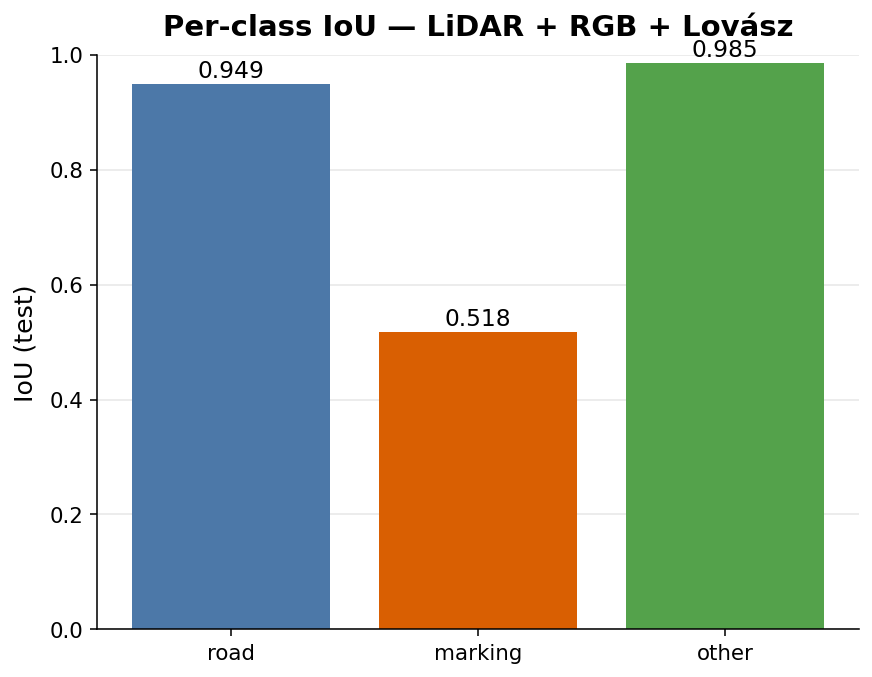
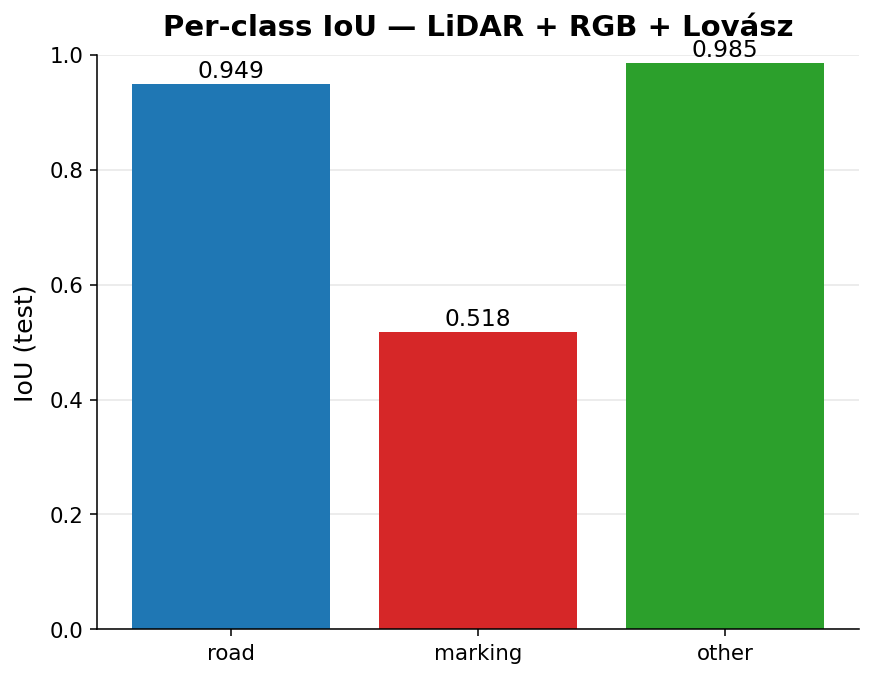
Figures: class colour rule blue=road/red=marking/green=other; fix confusion + distance
- _suite_style: MARKING orange->red (road already blue, other already green); decouple
  METRIC precision/recall to orange/purple so they don't reuse class colours.
- model_results_figures: confusion now annotated with ACTUAL COUNTS (+ row %), not
  rounded proportions; by-distance rescaled (tight y-axis) with marking-share per
  bucket so the far-range degradation (IoU 0.59->0.35) is visible; class/metric
  palettes applied consistently.
- regenerated G2_final, comparisons/plots, d0_vs_g2.

diff --git a/results/test_suite/model_results_figures.py b/results/test_suite/model_results_figures.py
@@ -5,19 +5,21 @@ For ONE model (the chosen final model), from its full-coverage test pass, makes 
 self-contained set of results figures + a summary table -> results/<model>_final/.
 CPU / file-only (reads the CSVs + confusion_matrix.npy already on disk).
 
-Figures (each answers one thesis question):
-  fig_per_class_iou       - road/marking/other IoU (which classes are hard)
-  fig_marking_metrics     - marking IoU/precision/recall/F1
-  fig_confusion           - row-normalized 3x3 confusion (error structure)
-  fig_by_distance         - marking IoU + precision + recall vs range bucket
-  fig_by_sequence         - marking IoU per test sequence (065 night highlighted)
-  fig_by_subtype          - recall per marking subtype (lane / stop / other)
-  fig_by_rgb_validity     - marking IoU + recall in camera-visible vs not (RGB models)
-  fig_frame_iou_hist      - distribution of per-frame marking IoU (consistency)
+Colour rule (via _suite_style): blue=road, red=marking, green=other for class
+figures; a separate palette (red/orange/purple/gold) for the marking IoU/precision/
+recall/F1 family so it never collides with class colours.
 
-Usage:
-  python results/test_suite/model_results_figures.py            # G2
-  python results/test_suite/model_results_figures.py --model D0
+Figures (each answers one thesis question):
+  fig_per_class_iou    - road/marking/other IoU
+  fig_marking_metrics  - marking IoU/precision/recall/F1
+  fig_confusion        - 3x3 confusion with ACTUAL COUNTS (+ row %)
+  fig_by_distance      - marking IoU/precision/recall vs range (rescaled; share/bucket)
+  fig_by_sequence      - marking IoU per sequence (065 night marked)
+  fig_by_subtype       - recall per marking subtype (lane / stop / other)
+  fig_by_rgb_validity  - marking IoU + recall where camera sees vs not (RGB models)
+  fig_frame_iou_hist   - per-frame marking IoU distribution (consistency)
+
+Usage:  python results/test_suite/model_results_figures.py [--model G2]
 """
 from __future__ import annotations
 
@@ -53,10 +55,12 @@ def repo_root() -> Path:
 REPO = repo_root()
 FOLDERS = {"D0": "D0_lidar", "E0": "E0_lidar_rgb", "F0": "F0_lidar_rgb_calibrated",
            "G2": "G2_lidar_rgb_lovasz", "H0": "H0_lidar_rgb_lovasz_jitter"}
+ROAD = getattr(S, "ROAD", "#1f77b4") if HAVE_STYLE else "#1f77b4"
 MARK = getattr(S, "MARKING", "#d62728") if HAVE_STYLE else "#d62728"
-ROAD = getattr(S, "ROAD", "#7f8c9a") if HAVE_STYLE else "#7f8c9a"
-OTHER = getattr(S, "OTHER", "#b0b0b0") if HAVE_STYLE else "#b0b0b0"
-ACC = getattr(S, "CANDIDATE", "#2e7d32") if HAVE_STYLE else "#2e7d32"
+OTHER = getattr(S, "OTHER", "#2ca02c") if HAVE_STYLE else "#2ca02c"
+MET = getattr(S, "METRIC", None) if HAVE_STYLE else None
+if not MET:
+    MET = {"iou": MARK, "precision": "#ff7f0e", "recall": "#9467bd", "f1": "#e6ab02"}
 
 
 def style(ax):
@@ -70,6 +74,15 @@ def legend(ax, **kw):
 
 def save(fig, out, name):
     fig.tight_layout(); fig.savefig(out / name, dpi=140); plt.close(fig)
+
+
+def fmt(n) -> str:
+    n = int(round(float(n)))
+    if abs(n) >= 1_000_000:
+        return f"{n/1e6:.2f}M"
+    if abs(n) >= 10_000:
+        return f"{n/1e3:.0f}k"
+    return f"{n:,}"
 
 
 def metrics_from_cm(cm):
@@ -91,73 +104,83 @@ def main():
     out = REPO / "results" / f"{args.model}_final"
     out.mkdir(parents=True, exist_ok=True)
     name = (S.display_name(args.model) if HAVE_STYLE and hasattr(S, "display_name") else args.model)
+    CLS = ["road", "marking", "other"]
 
     cm = np.load(d / "confusion_matrix.npy")
     cls = metrics_from_cm(cm)
 
-    # 1) per-class IoU
+    # 1) per-class IoU  (blue / red / green)
     fig, ax = plt.subplots(figsize=(6.4, 5))
     vals = [cls["road_iou"], cls["marking_iou"], cls["other_iou"]]
-    ax.bar(["road", "marking", "other"], vals, color=[ROAD, MARK, OTHER])
+    ax.bar(CLS, vals, color=[ROAD, MARK, OTHER])
     for i, v in enumerate(vals):
         ax.text(i, v + 0.012, f"{v:.3f}", ha="center")
     ax.set_ylim(0, 1); ax.set_ylabel("IoU (test)"); ax.set_title(f"Per-class IoU — {name}")
     style(ax); save(fig, out, "fig_per_class_iou.png")
 
-    # 2) marking metrics
+    # 2) marking metrics  (metric palette)
     sm = pd.read_csv(d / "rgb_valid_stratified_metrics.csv") if (d / "rgb_valid_stratified_metrics.csv").exists() else None
     row = (sm[sm["stratum"] == "all"].iloc[0] if sm is not None else None)
+    ks = [("marking_iou", "IoU", MET["iou"]), ("marking_precision", "precision", MET["precision"]),
+          ("marking_recall", "recall", MET["recall"]), ("marking_f1", "F1", MET["f1"])]
     if row is not None:
-        ks = [("marking_iou", "IoU"), ("marking_precision", "precision"),
-              ("marking_recall", "recall"), ("marking_f1", "F1")]
         fig, ax = plt.subplots(figsize=(6.8, 5))
-        vv = [float(row[k]) for k, _ in ks]
-        ax.bar([l for _, l in ks], vv, color=ACC)
+        vv = [float(row[k]) for k, _l, _c in ks]
+        ax.bar([l for _k, l, _c in ks], vv, color=[c for _k, _l, c in ks])
         for i, v in enumerate(vv):
             ax.text(i, v + 0.012, f"{v:.3f}", ha="center")
         ax.set_ylim(0, 1); ax.set_ylabel("score (test)"); ax.set_title(f"Marking metrics — {name}")
         style(ax); save(fig, out, "fig_marking_metrics.png")
 
-    # 3) confusion matrix (row-normalized)
+    # 3) confusion matrix with ACTUAL COUNTS (+ row %); colour = row-normalized
     cmn = cm / cm.sum(axis=1, keepdims=True).clip(min=1)
-    fig, ax = plt.subplots(figsize=(5.6, 5))
+    fig, ax = plt.subplots(figsize=(6.2, 5.2))
     im = ax.imshow(cmn, cmap="Blues", vmin=0, vmax=1)
-    ax.set_xticks(range(3)); ax.set_xticklabels(["road", "marking", "other"])
-    ax.set_yticks(range(3)); ax.set_yticklabels(["road", "marking", "other"])
-    ax.set_xlabel("predicted"); ax.set_ylabel("true"); ax.set_title(f"Confusion (row-normalized) — {name}")
+    ax.set_xticks(range(3)); ax.set_xticklabels(CLS)
+    ax.set_yticks(range(3)); ax.set_yticklabels(CLS)
+    ax.set_xlabel("predicted"); ax.set_ylabel("true")
+    ax.set_title(f"Confusion matrix (counts; cell %% of true row) — {name}")
     for i in range(3):
         for j in range(3):
-            ax.text(j, i, f"{cmn[i, j]:.2f}", ha="center", va="center",
-                    color="white" if cmn[i, j] > 0.5 else "black")
-    fig.colorbar(im, ax=ax, fraction=0.046, pad=0.04); save(fig, out, "fig_confusion.png")
+            ax.text(j, i, f"{fmt(cm[i, j])}\n{cmn[i, j]*100:.1f}%", ha="center", va="center",
+                    color="white" if cmn[i, j] > 0.5 else "black", fontsize=10)
+    fig.colorbar(im, ax=ax, fraction=0.046, pad=0.04, label="row-normalized")
+    save(fig, out, "fig_confusion.png")
 
-    # 4) by distance: IoU + precision + recall
+    # 4) by distance: IoU + precision + recall, rescaled, with marking share/bucket
     db = pd.read_csv(d / "distance_bucket_metrics.csv")
-    fig, ax = plt.subplots(figsize=(9.5, 5.2))
+    share = (db["true_marking"] / db["true_marking"].sum() * 100).round(0).astype(int)
+    xt = [f"{b}\n({s}% of mks)" for b, s in zip(db["bucket"], share)]
+    fig, ax = plt.subplots(figsize=(10, 5.4))
     x = range(len(db))
-    ax.plot(x, db["marking_iou"], marker="o", label="IoU", color=MARK)
-    ax.plot(x, db["marking_precision"], marker="s", label="precision", color=ACC)
-    ax.plot(x, db["marking_recall"], marker="^", label="recall", color="#1f77b4")
-    ax.set_xticks(list(x)); ax.set_xticklabels(db["bucket"]); ax.set_ylim(0, 1)
+    ax.plot(x, db["marking_iou"], marker="o", label="IoU", color=MET["iou"], lw=2)
+    ax.plot(x, db["marking_precision"], marker="s", label="precision", color=MET["precision"])
+    ax.plot(x, db["marking_recall"], marker="^", label="recall", color=MET["recall"])
+    lo = float(min(db[["marking_iou", "marking_precision", "marking_recall"]].min()))
+    hi = float(max(db[["marking_iou", "marking_precision", "marking_recall"]].max()))
+    ax.set_ylim(max(0, lo - 0.08), min(1, hi + 0.08))
+    ax.set_xticks(list(x)); ax.set_xticklabels(xt, fontsize=9)
     ax.set_ylabel("score (test)"); ax.set_xlabel("distance bucket")
     ax.set_title(f"Marking performance by distance — {name}")
     legend(ax, loc="lower left"); style(ax); save(fig, out, "fig_by_distance.png")
 
-    # 5) by sequence (065 night highlighted)
+    # 5) by sequence (marking red; 065 night marked)
     ps = pd.read_csv(d / "per_sequence_metrics.csv", dtype={"seq_id": str})
     ps["sn"] = ps["seq_id"].astype(int); ps = ps.sort_values("sn")
     fig, ax = plt.subplots(figsize=(11, 5.2))
     xs = range(len(ps))
-    bars = ax.bar(xs, ps["marking_iou"], color=ACC)
+    bars = ax.bar(xs, ps["marking_iou"], color=MARK)
     for i, s in enumerate(ps["seq_id"]):
         if int(s) == 65:
-            bars[i].set_color("#8a6d00"); ax.text(i, ps["marking_iou"].iloc[i] + 0.01, "night", ha="center", fontsize=8)
+            bars[i].set_edgecolor("black"); bars[i].set_linewidth(2)
+            ax.text(i, ps["marking_iou"].iloc[i] + 0.012, "night", ha="center", fontsize=9, fontweight="bold")
     ax.set_xticks(list(xs)); ax.set_xticklabels([f"{int(s):03d}" for s in ps["seq_id"]])
+    ax.set_ylim(0, float(ps["marking_iou"].max()) + 0.10)
     ax.set_ylabel("marking IoU (test)"); ax.set_xlabel("test sequence")
     ax.set_title(f"Marking IoU per sequence — {name}  (065 = night)")
     style(ax); save(fig, out, "fig_by_sequence.png")
 
-    # 6) by subtype: recall (subtype stratum = recall; precision trivially 1.0)
+    # 6) by subtype: recall (subtype stratum -> recall; precision trivially 1)
     st = pd.read_csv(d / "raw_subtype_rgb_stratified_metrics.csv")
     allr = st[st["stratum"] == "all"]
     fig, ax = plt.subplots(figsize=(7.2, 5))
@@ -170,30 +193,29 @@ def main():
     ax.set_title(f"Recall by marking subtype — {name}")
     style(ax); save(fig, out, "fig_by_subtype.png")
 
-    # 7) by rgb-validity (RGB models only)
+    # 7) by rgb-validity (RGB models only): IoU + recall
     if sm is not None and {"rgb_valid", "rgb_invalid"}.issubset(set(sm["stratum"])):
-        sub = sm.set_index("stratum")
-        cats = ["rgb_valid", "rgb_invalid"]
+        sub = sm.set_index("stratum"); cats = ["rgb_valid", "rgb_invalid"]
         x = np.arange(len(cats)); w = 0.38
         fig, ax = plt.subplots(figsize=(7, 5))
-        ax.bar(x - w / 2, [sub.loc[c, "marking_iou"] for c in cats], w, label="IoU", color=MARK)
-        ax.bar(x + w / 2, [sub.loc[c, "marking_recall"] for c in cats], w, label="recall", color=ACC)
+        ax.bar(x - w / 2, [sub.loc[c, "marking_iou"] for c in cats], w, label="IoU", color=MET["iou"])
+        ax.bar(x + w / 2, [sub.loc[c, "marking_recall"] for c in cats], w, label="recall", color=MET["recall"])
         ax.set_xticks(x); ax.set_xticklabels(["camera-visible\n(rgb valid)", "not visible\n(rgb invalid)"])
         ax.set_ylim(0, 1); ax.set_ylabel("score (test)")
         ax.set_title(f"Performance where the camera sees vs not — {name}")
         legend(ax, loc="upper right"); style(ax); save(fig, out, "fig_by_rgb_validity.png")
 
-    # 8) per-frame marking IoU distribution (aggregate patches -> frames)
+    # 8) per-frame marking IoU distribution
     fe = pd.read_csv(d / "frame_error_summary.csv", dtype={"seq_id": str})
     g = fe.groupby(["seq_id", "frame_idx"]).agg(tp=("marking_tp", "sum"), fp=("marking_fp", "sum"),
                                                 fn=("marking_fn", "sum"), tm=("true_marking", "sum")).reset_index()
     g = g[g["tm"] >= 2000]
     g["iou"] = g["tp"] / (g["tp"] + g["fp"] + g["fn"]).replace(0, np.nan)
     fig, ax = plt.subplots(figsize=(8, 5))
-    ax.hist(g["iou"].dropna(), bins=20, color=ACC, edgecolor="white")
-    ax.axvline(g["iou"].median(), color=MARK, ls="--", label=f"median {g['iou'].median():.3f}")
-    ax.set_xlabel("per-frame marking IoU (frames with marking)"); ax.set_ylabel("frames")
-    ax.set_title(f"Per-frame marking IoU distribution — {name}  (n={len(g)})")
+    ax.hist(g["iou"].dropna(), bins=20, color=MARK, edgecolor="white")
+    ax.axvline(g["iou"].median(), color="black", ls="--", lw=1.6, label=f"median {g['iou'].median():.3f}")
+    ax.set_xlabel("per-frame marking IoU (frames with marking)"); ax.set_ylabel("number of frames")
+    ax.set_title(f"Per-frame marking IoU distribution — {name}  (n={len(g)} frames)")
     legend(ax, loc="upper left"); style(ax); save(fig, out, "fig_frame_iou_hist.png")
 
     print(f"[model_results_figures] {args.model} -> {out.relative_to(REPO)}")

diff --git a/results/test_suite/_suite_style.py b/results/test_suite/_suite_style.py
@@ -33,10 +33,11 @@ matplotlib.use("Agg")
 import matplotlib.pyplot as plt  # noqa: E402
 
 # ----------------------------- palette ----------------------------------- #
-# Class identity (kept stable across the whole thesis).
-ROAD = "#4c78a8"      # blue
-MARKING = "#d95f02"   # orange
-OTHER = "#54a24b"     # green
+# Class identity (kept stable across the whole thesis). RULE: blue=road,
+# red=marking, green=other -- used for ANY figure that colours by class.
+ROAD = "#1f77b4"      # blue
+MARKING = "#d62728"   # red
+OTHER = "#2ca02c"     # green
 CLASS = {"road": ROAD, "marking": MARKING, "other": OTHER}
 
 # Run identity (distinct from class colours; never co-occur with class colours).
@@ -81,10 +82,10 @@ def display_name(label: str) -> str:
 # Marking-metric family. IoU ties to the marking colour; the other three are
 # mutually distinct and do NOT reuse the candidate/baseline hues.
 METRIC = {
-    "iou": MARKING,
-    "precision": ROAD,
-    "recall": OTHER,
-    "f1": "#e6ab02",   # gold (was teal — collided with CANDIDATE; now unique)
+    "iou": MARKING,       # red (IoU is the headline marking metric)
+    "precision": "#ff7f0e",  # orange  (decoupled from class blue/green)
+    "recall": "#9467bd",     # purple
+    "f1": "#e6ab02",         # gold
 }
 
 # Calibration: predicted/true marking ratio has ONE colour everywhere it is a
